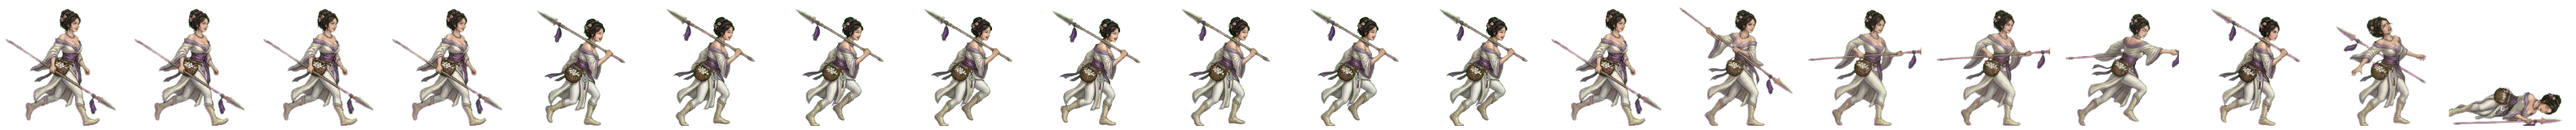
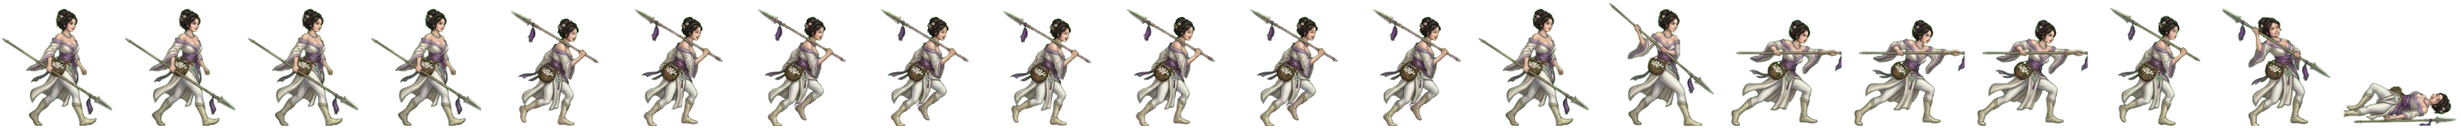
전투 띠 새로: 조문 오디 동작 다시 — 창을 두 손으로 잡고 앞으로 찌른다 (빈 주먹 찌르기 고침 · 제미나이 u/0 · 11-09 띠 검수) (형 11-08)
Claude-Session: https://claude.ai/code/session_01TRiuNAG8xSjdmjCFpc8Rd5

diff --git a/src/ui/realm/battle-strikes.ts b/src/ui/realm/battle-strikes.ts
@@ -143,7 +143,7 @@ const CONTACT: Readonly<Record<string, [number, number, number]>> = {
   'gen-haebi': [14, 0.87, 0.53], 'gen-heo': [14, 0.94, 0.46], 'gen-hyeokgeose': [14, 0.83, 0.94],
   'gen-hyeopbo': [14, .93, .21], 'gen-malgalgi': [14, 0.88, 0.28], 'gen-mari': [14, .98, .47],
   'gen-oi': [14, .98, .48], 'gen-onjo': [14, 0.83, 0.93], 'gen-soebi': [14, 0.80, 0.95],
-  'gen-soseono': [14, 0.92, 0.31], 'gen-maryeo': [14, 0.91, 0.79], 'gen-horselord': [14, 0.89, 0.25], 'gen-olddaeso': [14, 0.93, 0.91], 'gen-maro': [14, 0.97, 0.49], 'gen-gwaeyu': [14, 0.98, 0.71], 'gen-daemusin': [14, 0.91, 0.38], 'gen-tahae': [14, 0.91, 0.74], 'gen-ocheongan': [14, 0.82, 0.49], 'gen-yusugan': [14, 0.95, 0.70], 'gen-odogan': [14, 0.93, 0.28], 'gen-pidogan': [14, 0.94, 0.75], 'gen-yeodogan': [14, 0.93, 0.57], 'gen-adogan': [14, 0.95, 0.41], 'gen-musoe': [14, 0.94, 0.39], 'gen-suro': [14, 0.82, 0.53], 'gen-waechief': [14, 0.95, 0.68], 'gen-hojin': [14, 0.97, 0.64], 'gen-jita': [14, 0.94, 0.34], 'gen-guryema': [14, 0.89, 0.28], 'gen-jibaekho': [14, 0.97, 0.33], 'gen-sobeol': [14, 0.95, 0.33], 'gen-alpyeong': [14, 0.95, 0.54], 'gen-hogong': [14, 0.98, 0.27], 'gen-geumbawi': [14, 0.91, 0.92], 'gen-keundol': [14, 0.90, 0.68], 'gen-jinha': [14, 0.76, 0.93], 'gen-duman': [14, 0.97, 0.39], 'gen-gomok': [14, 0.94, 0.57], 'gen-hneoul': [14, 0.92, 0.27], 'gen-tneoul': [14, 0.84, 0.57], 'gen-sdallae': [14, 0.89, 0.29], 'gen-yucheongan': [14, 0.97, 0.64], 'gen-sincheongan': [14, 0.91, 0.71], 'gen-singwigan': [14, 0.91, 0.27], 'gen-mdallae': [14, 0.98, 0.30], 'gen-mulbeom': [14, 0.97, 0.36], 'gen-beomi': [14, 0.88, 0.43], 'gen-danbi': [14, 0.90, 0.30], 'gen-mulsae': [14, 0.87, 0.36], 'gen-darae': [14, 0.89, 0.29], 'gen-mir': [14, 0.91, 0.33], 'gen-wan': [14, 0.94, 0.30], 'gen-gom': [14, 0.94, 0.74], 'gen-sagong': [14, 0.79, 0.96], 'gen-halla': [14, 0.86, 0.46], 'gen-areum': [14, 0.86, 0.65], 'gen-dokmudeom': [14, 0.92, 0.29], 'gen-beom': [14, 0.98, 0.28], 'gen-baram': [14, 0.96, 0.24], 'gen-goeun': [14, 0.95, 0.66], 'gen-byeol': [14, 0.76, 0.96], 'gen-sinneoul': [14, 0.94, 0.33], 'gen-haesol': [14, 0.94, 0.34], 'gen-odi': [14, 0.91, 0.39], 'gen-irang': [14, 0.86, 0.30], 'gen-dalli': [14, 0.89, 0.32], 'gen-bakdal': [14, 0.94, 0.27], 'gen-noeul': [14, 0.88, 0.27], 'gen-maehwa': [14, 0.90, 0.31], 'gen-gaon': [14, 0.98, 0.41], 'gen-eomni': [14, 0.96, 0.42], 'gen-nuri': [14, 0.98, 0.34], 'gen-bira': [14, 0.88, 0.33], 'gen-gureum': [14, 0.98, 0.42],
+  'gen-soseono': [14, 0.92, 0.31], 'gen-maryeo': [14, 0.91, 0.79], 'gen-horselord': [14, 0.89, 0.25], 'gen-olddaeso': [14, 0.93, 0.91], 'gen-maro': [14, 0.97, 0.49], 'gen-gwaeyu': [14, 0.98, 0.71], 'gen-daemusin': [14, 0.91, 0.38], 'gen-tahae': [14, 0.91, 0.74], 'gen-ocheongan': [14, 0.82, 0.49], 'gen-yusugan': [14, 0.95, 0.70], 'gen-odogan': [14, 0.93, 0.28], 'gen-pidogan': [14, 0.94, 0.75], 'gen-yeodogan': [14, 0.93, 0.57], 'gen-adogan': [14, 0.95, 0.41], 'gen-musoe': [14, 0.94, 0.39], 'gen-suro': [14, 0.82, 0.53], 'gen-waechief': [14, 0.95, 0.68], 'gen-hojin': [14, 0.97, 0.64], 'gen-jita': [14, 0.94, 0.34], 'gen-guryema': [14, 0.89, 0.28], 'gen-jibaekho': [14, 0.97, 0.33], 'gen-sobeol': [14, 0.95, 0.33], 'gen-alpyeong': [14, 0.95, 0.54], 'gen-hogong': [14, 0.98, 0.27], 'gen-geumbawi': [14, 0.91, 0.92], 'gen-keundol': [14, 0.90, 0.68], 'gen-jinha': [14, 0.76, 0.93], 'gen-duman': [14, 0.97, 0.39], 'gen-gomok': [14, 0.94, 0.57], 'gen-hneoul': [14, 0.92, 0.27], 'gen-tneoul': [14, 0.84, 0.57], 'gen-sdallae': [14, 0.89, 0.29], 'gen-yucheongan': [14, 0.97, 0.64], 'gen-sincheongan': [14, 0.91, 0.71], 'gen-singwigan': [14, 0.91, 0.27], 'gen-mdallae': [14, 0.98, 0.30], 'gen-mulbeom': [14, 0.97, 0.36], 'gen-beomi': [14, 0.88, 0.43], 'gen-danbi': [14, 0.90, 0.30], 'gen-mulsae': [14, 0.87, 0.36], 'gen-darae': [14, 0.89, 0.29], 'gen-mir': [14, 0.91, 0.33], 'gen-wan': [14, 0.94, 0.30], 'gen-gom': [14, 0.94, 0.74], 'gen-sagong': [14, 0.79, 0.96], 'gen-halla': [14, 0.86, 0.46], 'gen-areum': [14, 0.86, 0.65], 'gen-dokmudeom': [14, 0.92, 0.29], 'gen-beom': [14, 0.98, 0.28], 'gen-baram': [14, 0.96, 0.24], 'gen-goeun': [14, 0.95, 0.66], 'gen-byeol': [14, 0.76, 0.96], 'gen-sinneoul': [14, 0.94, 0.33], 'gen-haesol': [14, 0.94, 0.34], 'gen-odi': [14, 0.96, 0.46], 'gen-irang': [14, 0.86, 0.30], 'gen-dalli': [14, 0.89, 0.32], 'gen-bakdal': [14, 0.94, 0.27], 'gen-noeul': [14, 0.88, 0.27], 'gen-maehwa': [14, 0.90, 0.31], 'gen-gaon': [14, 0.98, 0.41], 'gen-eomni': [14, 0.96, 0.42], 'gen-nuri': [14, 0.98, 0.34], 'gen-bira': [14, 0.88, 0.33], 'gen-gureum': [14, 0.98, 0.42],
   'gen-biryu': [14, 0.90, 0.35], 'gen-geumha': [14, 0.94, 0.61], 'gen-geota': [14, 0.86, 0.47], 'gen-soebo': [14, 0.87, 0.57],
   'gen-gaennae': [14, 249 / 264, 47 / 160],
   'gen-budeul': [14, 266 / 280, 51 / 160],

diff --git a/src/realm/data/art.ts b/src/realm/data/art.ts
@@ -518,7 +518,7 @@ export const GEN_ANIM: Readonly<Partial<Record<string, { ar: number; body: numbe
   nuri: { ar: 162 / 160, body: 0.900 }, // 11-08 초상대로 다시 (형: 「투구 쓰고 원본과 다르다」 · 제미나이 걷기 4×2 + 동작 4×2 → 20컷 · assets_src/realm/gemini/generals2) · 11-08 처음 · 흰 털 어깨 망토·크림빛 비단 옷·금 목걸이·창 찌르기 · 걷기는 창을 어깨에 멘 아랫줄만
   bira: { ar: 156 / 160, body: 0.900 }, // 11-08 초상대로 다시 (형: 「투구 쓰고 원본과 다르다」 · 제미나이 걷기 4×2 + 동작 4×2 → 20컷 · assets_src/realm/gemini/generals2) · 11-08 처음 · 푸른 깃 머리띠·푸른 짧은 조끼·밧줄 타래·조개 목걸이·작살 창 찌르기 · 걷기는 아랫줄만
   soenun: { ar: 280 / 160, body: 0.9375 }, // 11-08 쇠눈 · 제미나이 u/2 2×2(겨눔·찌르기·거둠·피격) + 새 대화 쓰러짐 · 갯내 4실보행 하체(짙은 바지 · 걷는 동안 쇠 정강이받이는 장화로 보인다) · 창 자루는 걷기에도 남긴다
-  odi: { ar: 158 / 160, body: 0.900 }, // 11-08 초상대로 다시 (형: 「투구 쓰고 원본과 다르다」 · 제미나이 걷기 4×2 + 동작 4×2 → 20컷 · assets_src/realm/gemini/generals2) · 11-08 처음 · 조문 오디(꽃·구슬 올린 머리·흰 보라 비단 옷·누에고치 바구니·보라 술 창 · 찌르기 칸의 창 방향은 다시 구울 거리)
+  odi: { ar: 151 / 160, body: 0.900 }, // 11-08 초상대로 다시 (형: 「투구 쓰고 원본과 다르다」 · 제미나이 걷기 4×2 + 동작 4×2 → 20컷 · assets_src/realm/gemini/generals2) · 11-08 처음 · 조문 오디 동작 다시 — 창을 두 손으로 잡고 앞으로 찌른다 (빈 주먹 찌르기 고침 · 제미나이 u/0 · 11-09 띠 검수)
   haesol: { ar: 161 / 160, body: 0.900 }, // 11-08 초상대로 다시 (형: 「투구 쓰고 원본과 다르다」 · 제미나이 걷기 4×2 + 동작 4×2 → 20컷 · assets_src/realm/gemini/generals2) · 11-08 처음 · 우산 해솔(솔가지 꽂은 긴 머리·초록 깃 흰 짧은 옷·푸른 구슬·초록 끈 창 찌르기)
   sinneoul: { ar: 163 / 160, body: 0.906 }, // 11-08 초상대로 다시 (형: 「투구 쓰고 원본과 다르다」 · 제미나이 걷기 4×2 + 동작 4×2 → 20컷 · assets_src/realm/gemini/generals2) · 11-08 처음 · 신지 너울(젖은 긴 머리·묶어 입은 흰 삼베 윗옷·짧은 바지·그물 주머니·갈고리 작살 · 맨발)
   byeol: { ar: 155 / 160, body: 0.906 }, // 11-08 초상대로 다시 (형: 「투구 쓰고 원본과 다르다」 · 제미나이 걷기 4×2 + 동작 4×2 → 20컷 · assets_src/realm/gemini/generals2) · 11-08 처음 · 벽진 별(땋은 머리·흰 민소매에 가죽 대장장이 앞치마·맨발·달군 쇠칼 내려치기)
